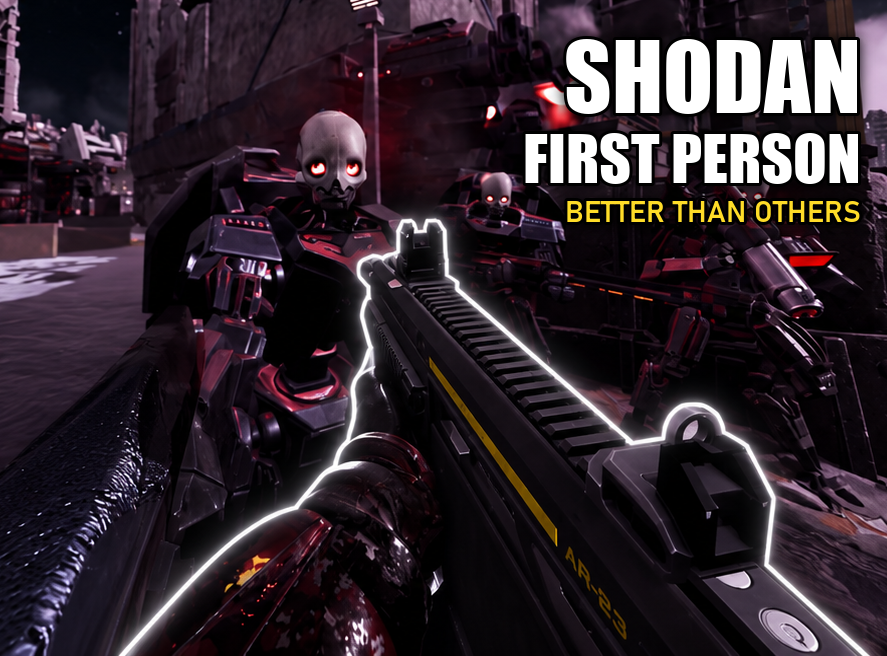
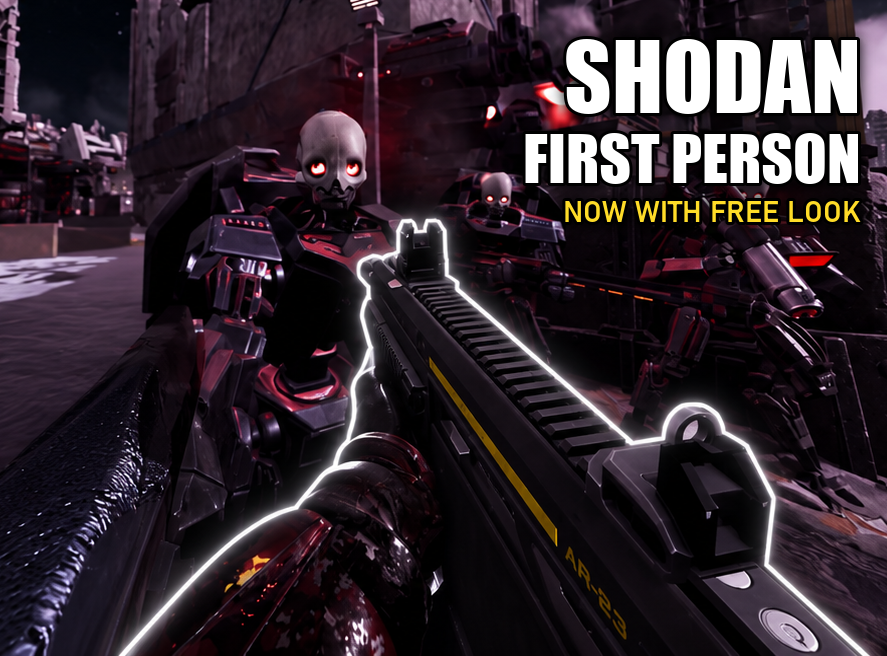
README: free look, and the feature image says Now with free look

Changed region(s): [[0.6392, 0.3049, 0.9741, 0.3659]]

diff --git a/README.md b/README.md
@@ -5,6 +5,9 @@ tuned: on foot, crouched, prone, diving, in a hellpod, driving or riding an FRV,
 on an emplacement, and each weapon can have its own setup. Settings save between launches and can be kept
 as profiles.
 
+Hold **X** for free look. You look around while your gun keeps aiming where it was, and when you let go
+the view swings back to your aim. How far it turns is up to you, all the way round if you want to look behind you.
+
 When you die, your view blurs, your eyes blink and close, and the screen goes black until your
 reinforcement drops in. Aim with the ballistic shield raised and you look through its window slot.
 
@@ -27,6 +30,7 @@ reinforcement drops in. Aim with the ballistic shield raised and you look throug
 |---|---|
 | F6 | First person on or off |
 | F10 | Open the settings panel |
+| X (hold) | Free look |
 
 Every key can be changed on the panel's Keys tab. It also has keys you can set for third person (hold or toggle) and next profile.
 
@@ -37,7 +41,7 @@ it's in your hands.
 
 | Tab | What you can change |
 |---|---|
-| Camera | Camera position, field of view, aiming field of view, smoothing, profiles, the ballistic shield view, sprint tilt, the death effect and knockdown daze, and when to switch to third person (galactic map, mission terminals, map and stratagem menu) |
+| Camera | Free look, camera position, field of view, aiming field of view, smoothing, profiles, the ballistic shield view, sprint tilt, the death effect and knockdown daze, and when to switch to third person (galactic map, mission terminals, map and stratagem menu) |
 | Aim | Crosshair follows the gun: keeps your shots where the crosshair points, while aiming and from the hip |
 | Stance | Its own camera position and field of view when crouched or prone, how the view behaves when diving, lying down, knocked down and getting up |
 | Meshes | Hide any part of your helldiver from view, the guns in hand or on your back, and armour while scoped |
